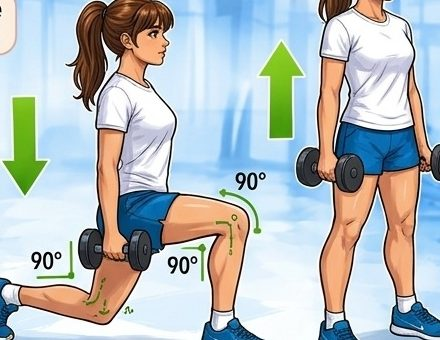
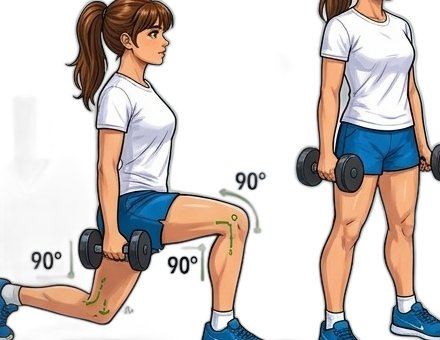
v2.13 : vignettes des ateliers détourées (fond retiré)
Claude-Session: https://claude.ai/code/session_01W45JVKsQKW4xh1AxP6R2BL

diff --git a/sw.js b/sw.js
@@ -1,6 +1,6 @@
 /* Hors ligne : l'appli est gardée sur le téléphone après la 1re ouverture.
    À chaque mise en ligne : augmenter VERSION (musculation-eleves-vN). */
-const VERSION='musculation-eleves-v2.12';
+const VERSION='musculation-eleves-v2.13';
 // Toutes les applis partagent le même stockage (même adresse github.io) : on n'efface QUE les anciennes versions de CETTE appli.
 const MES_CACHES=/^musculation-eleves-v\d+(?:\.\d+)?$/;
 const sous3s=p=>{p.catch(()=>{});return Promise.race([p,new Promise((_,non)=>setTimeout(()=>non(new Error('réseau lent')),3000))])};
